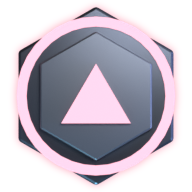
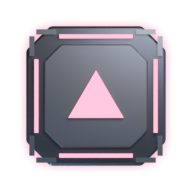
art: 补给箱改切角方箱、棱镜/蜂群补装甲分件（v0.21.2）

Changed region(s): [[0.0625, 0.0312, 0.9375, 0.9688], [0.3125, 0.3438, 0.6875, 0.6562], [0.7188, 0.6875, 0.75, 0.7188]]

diff --git a/artgen/blender/gen_art.py b/artgen/blender/gen_art.py
@@ -590,6 +590,18 @@ def build_player_prism(accent):
     objs.append(poly_prism("canopy", _octagon(0.07, 1.9, 12), 0.06, 0.10, glass, 0.010))
     for sx in (-1, 1):
         objs.append(box("nozzle", (0.06, 0.14, 0.05), (sx * 0.05, 0.62, 0.05), neon, 0.0))
+    # 装甲分件（对齐 interceptor 的零件密度）：脊背压板、尾板、翼根进气、翼炮、铆点
+    objs.append(poly_prism("back_plate", [(0, -0.60), (0.045, -0.30), (0.052, 0.34),
+                                          (0.036, 0.60), (0, 0.66), (-0.036, 0.60),
+                                          (-0.052, 0.34), (-0.045, -0.30)],
+                           0.06, 0.085, armor, 0.008))
+    objs.append(box("tail_plate", (0.22, 0.07, 0.03), (0, 0.66, 0.045), armor, 0.006))
+    for sx in (-1, 1):
+        objs.append(box("intake", (0.055, 0.14, 0.055), (sx * 0.13, -0.12, 0.01), dark, 0.006))
+        objs.append(box("gun_pod", (0.045, 0.20, 0.055), (sx * 0.47, 0.12, 0.035), dark, 0.006))
+    for i in range(3):
+        objs.append(box("greeble", (0.024, 0.02, 0.03),
+                        (-0.015 + (i % 2) * 0.03, 0.36 + i * 0.055, 0.092), dark, 0.003))
     return flip_180(objs), []
 
 
@@ -617,6 +629,18 @@ def build_player_swarm(accent):
     for sx in (-1, 1):
         for i in range(3):
             objs.append(cyl("missile", 0.018, 0.10, (sx * 0.33, -0.02 + i * 0.11, 0.085), neon, 8))
+    # 装甲分件：脊背压板、尾板、翼梁、舱侧进气、铆点——把"两个筒"补成机体
+    objs.append(poly_prism("back_plate", [(0, -0.56), (0.06, -0.24), (0.075, 0.30),
+                                          (0.05, 0.58), (0, 0.64), (-0.05, 0.58),
+                                          (-0.075, 0.30), (-0.06, -0.24)],
+                           0.06, 0.085, armor, 0.008))
+    objs.append(box("tail_plate", (0.28, 0.075, 0.03), (0, 0.64, 0.045), armor, 0.006))
+    for sx in (-1, 1):
+        objs.append(box("pylon", (0.18, 0.075, 0.045), (sx * 0.17, 0.34, 0.02), dark, 0.005))
+        objs.append(box("intake", (0.05, 0.13, 0.05), (sx * 0.30, -0.40, 0.03), dark, 0.005))
+    for i in range(3):
+        objs.append(box("greeble", (0.026, 0.02, 0.03),
+                        (-0.015 + (i % 2) * 0.03, 0.36 + i * 0.05, 0.092), dark, 0.003))
     return flip_180(objs), []
 
 
@@ -778,18 +802,33 @@ CRATE_TINT = {
 }
 
 
+def _chamfer_square(half, cut):
+    """切角方箱的俯视轮廓：正方形四角各切一刀（低模硬边，不用圆角）。"""
+    return [(-half + cut, -half), (half - cut, -half), (half, -half + cut), (half, half - cut),
+            (half - cut, half), (-half + cut, half), (-half, half - cut), (-half, -half + cut)]
+
+
 def build_crate(name):
-    """补给箱：六边形胶囊 + 自发光图徽（俯视下靠图徽分辨种类）。"""
+    """补给箱：切角方箱 + 四条霓虹边条 + 自发光图徽（俯视下靠图徽分辨种类）。"""
     tint = hex_rgb(CRATE_TINT[name])
-    hull = mat_pbr("crate_hull", (0.040, 0.050, 0.075), 0.90, 0.30)
-    band = mat_pbr("crate_band", (0.075, 0.090, 0.125), 0.85, 0.38)
+    hull = mat_pbr("crate_hull", (0.065, 0.078, 0.105), 0.90, 0.30)
+    band = mat_pbr("crate_band", (0.115, 0.130, 0.165), 0.85, 0.38)
     neon = mat_emit("crate_neon", tint, 1.30)
     objs = [
-        poly_prism("base", _octagon(0.72, 1.0, 6, math.pi / 6), -0.10, 0.08, hull, 0.02),
-        poly_prism("lid", _octagon(0.52, 1.0, 6, math.pi / 6), 0.08, 0.13, band, 0.012),
-        arc_ring("trim", 0.56, 0.64, 0, 2 * math.pi, 0.08, 0.11, neon, seg=36, bevel=0.0),
+        poly_prism("base", _chamfer_square(0.70, 0.24), -0.10, 0.08, hull, 0.02),
+        poly_prism("lid", _chamfer_square(0.52, 0.17), 0.08, 0.13, band, 0.012),
+        # 方形霓虹边条替掉原来的圆环：远看是"箱"，不是"徽章"
+        box("edge_t", (0.74, 0.042, 0.035), (0, 0.60, 0.15), neon, 0.0),
+        box("edge_b", (0.74, 0.042, 0.035), (0, -0.60, 0.15), neon, 0.0),
+        box("edge_l", (0.042, 0.74, 0.035), (-0.60, 0, 0.15), neon, 0.0),
+        box("edge_r", (0.042, 0.74, 0.035), (0.60, 0, 0.15), neon, 0.0),
     ]
-    glyph_z = (0.13, 0.17)
+    # 四角金属压条：让方箱有"加固件"的机械感
+    for sx in (-1, 1):
+        for sy in (-1, 1):
+            objs.append(box("brace_x", (0.20, 0.05, 0.03), (sx * 0.50, sy * 0.645, 0.145), band, 0.0))
+            objs.append(box("brace_y", (0.05, 0.20, 0.03), (sx * 0.645, sy * 0.50, 0.145), band, 0.0))
+    glyph_z = (0.155, 0.195)
     if name == "crate_weapon":
         for i in range(2):
             s = 0.30 - i * 0.10
@@ -799,24 +838,24 @@ def build_crate(name):
     elif name == "crate_swarm":
         # 三个点（蜂群），与武器箱的双箭头区分开
         for dx, dy in ((-0.20, 0.16), (0.20, 0.16), (0, -0.18)):
-            objs.append(cyl("dot", 0.11, 0.06, (dx, dy, 0.15), neon, 12, bevel=0.0))
+            objs.append(cyl("dot", 0.11, 0.06, (dx, dy, 0.175), neon, 12, bevel=0.0))
     elif name == "crate_shield":
         objs.append(poly_prism("sh", [(-0.26, 0.22), (0.26, 0.22), (0.26, -0.06),
                                       (0, -0.30), (-0.26, -0.06)], glyph_z[0], glyph_z[1], neon, 0.0))
     elif name == "crate_drone":
         objs.append(poly_prism("core", _octagon(0.14, 1.0, 8), glyph_z[0], glyph_z[1], neon, 0.0))
         for sx in (-1, 1):
-            objs.append(box("wing", (0.22, 0.09, 0.04), (sx * 0.24, 0.04, 0.15), neon, 0.0))
+            objs.append(box("wing", (0.22, 0.09, 0.04), (sx * 0.24, 0.04, 0.175), neon, 0.0))
     elif name == "crate_prism":
         objs.append(poly_prism("tri", [(0, 0.26), (0.28, -0.22), (-0.28, -0.22)],
                                glyph_z[0], glyph_z[1], neon, 0.0))
     elif name == "crate_reflect":
         objs.append(arc_ring("ring_g", 0.16, 0.26, 0, 2 * math.pi, glyph_z[0], glyph_z[1],
                              neon, seg=28, bevel=0.0))
-        objs.append(box("bar", (0.08, 0.44, 0.04), (0, 0, 0.15), neon, 0.0))
+        objs.append(box("bar", (0.08, 0.44, 0.04), (0, 0, 0.175), neon, 0.0))
     elif name == "crate_life":
-        objs.append(box("v", (0.10, 0.44, 0.04), (0, 0, 0.15), neon, 0.0))
-        objs.append(box("h", (0.36, 0.10, 0.04), (0, 0.02, 0.15), neon, 0.0))
+        objs.append(box("v", (0.10, 0.44, 0.04), (0, 0, 0.175), neon, 0.0))
+        objs.append(box("h", (0.36, 0.10, 0.04), (0, 0.02, 0.175), neon, 0.0))
     elif name == "crate_swap":
         for sx in (-1, 1):
             objs.append(poly_prism("arr", [(sx * 0.06, 0.26), (sx * 0.28, 0.0), (sx * 0.06, -0.26)],
@@ -824,7 +863,7 @@ def build_crate(name):
     elif name == "crate_gem":
         objs.append(poly_prism("gem", [(0, 0.30), (0.22, 0.06), (0, -0.26), (-0.22, 0.06)],
                                glyph_z[0], glyph_z[1], neon, 0.0))
-        objs.append(box("facet", (0.06, 0.50, 0.02), (0, 0, 0.18), mat_emit("gem_pin", (1.0, 0.98, 0.90), 1.7), 0.0))
+        objs.append(box("facet", (0.06, 0.50, 0.02), (0, 0, 0.205), mat_emit("gem_pin", (1.0, 0.98, 0.90), 1.7), 0.0))
     return objs, []
 
 
